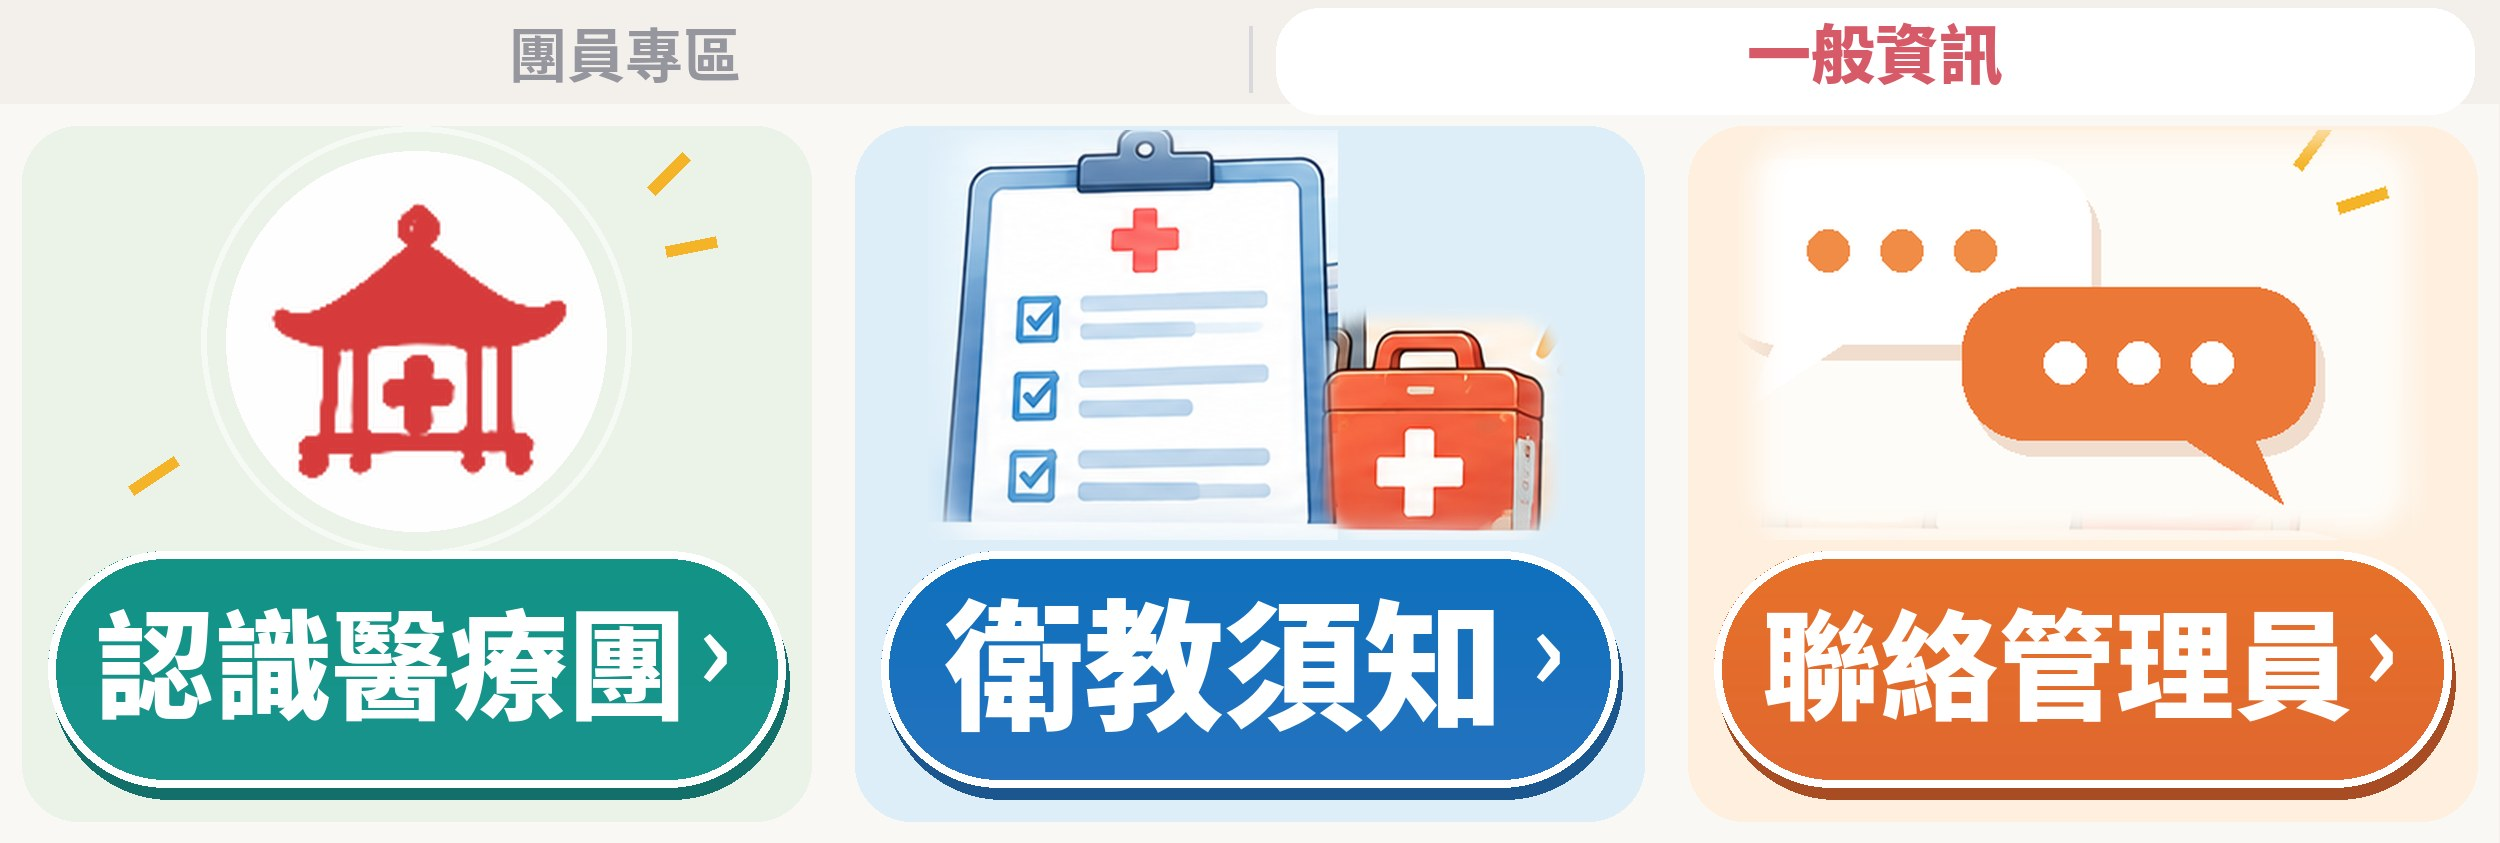
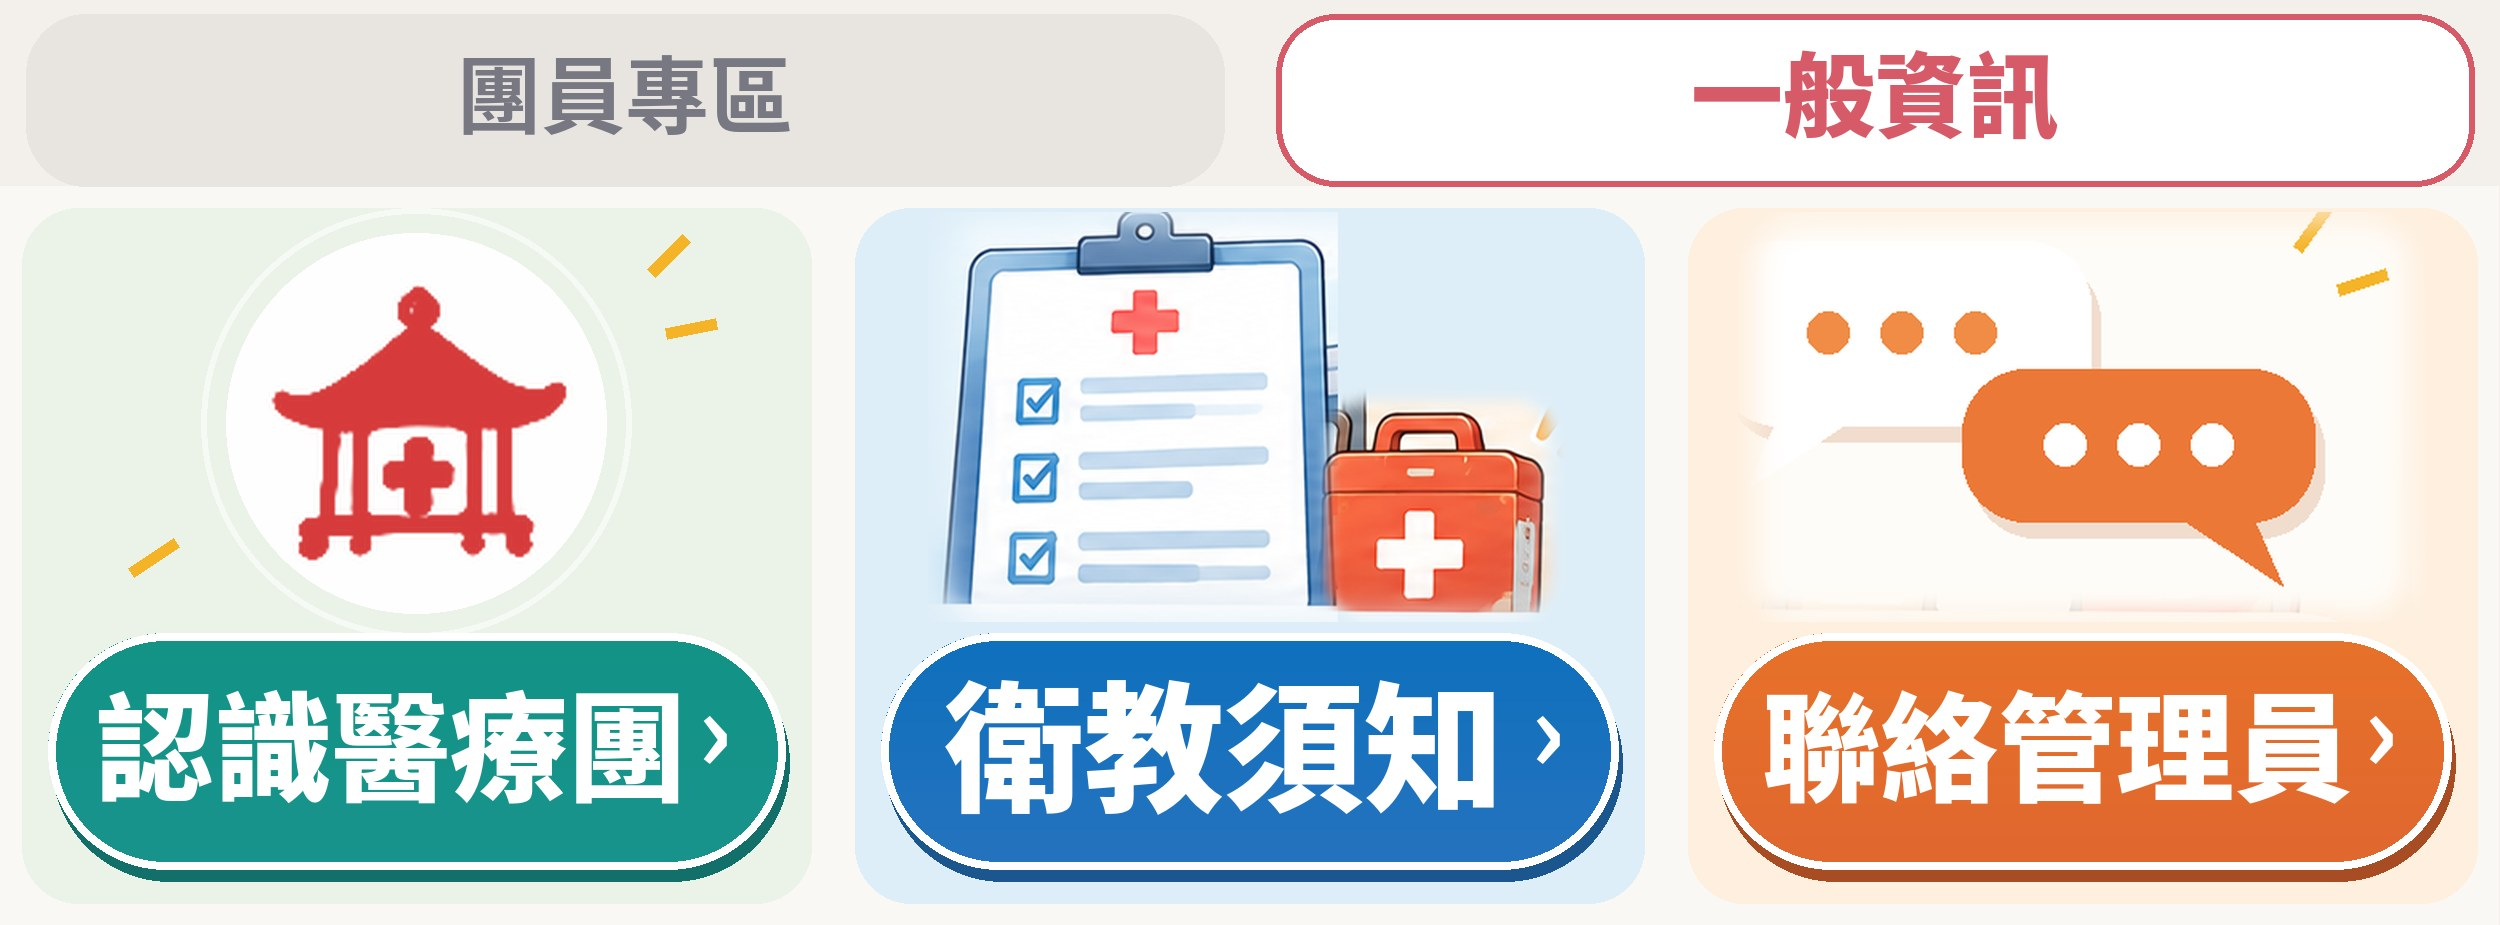
團員選單分頁列加高、字放大，比較好按
Claude-Session: https://claude.ai/code/session_01UgnuMUR9BFixKJirFzAXJh

diff --git a/security/worker.js b/security/worker.js
@@ -109,11 +109,11 @@ async function parseRoute(req, env, json) {
 // 兩種選單：guest（預設，沒開通的人）、member（審核通過的團員）。用 alias 記住目前的選單 ID，不用另外存。
 const SITE = 'https://tsushin-buishatun.pages.dev';
 const LIFF = id => 'https://liff.line.me/' + id;
-// 圖片 2500×843。分頁式選單上方 104px 是分頁列（左：團員專區、右：一般資訊），下面三格按鈕
-const MW = 2500, MH = 843, TAB = 104;
-const cols3 = (acts, top) => acts.map((a, i) => {
+// 一般民眾選單 2500×843；團員兩頁 2500×925，上方 186px 是分頁列（左：團員專區、右：一般資訊），下面三格按鈕
+const MW = 2500, MH = 843, TH = 925, TAB = 186;
+const cols3 = (acts, top, h) => acts.map((a, i) => {
   const cw = Math.floor(MW / 3), x = i * cw;
-  return { bounds: { x, y: top, width: i === 2 ? MW - x : cw, height: MH - top }, action: a };
+  return { bounds: { x, y: top, width: i === 2 ? MW - x : cw, height: h - top }, action: a };
 });
 const tabs = () => [
   { bounds: { x: 0, y: 0, width: MW / 2, height: TAB }, action: { type: 'richmenuswitch', richMenuAliasId: 'bst-member', data: 'tab=member' } },
@@ -131,9 +131,9 @@ const MEMBER = [
   { type: 'uri', label: '倉儲管理', uri: LIFF('2011820105-ofRs4ehy') },
 ];
 const MENUS = {
-  guest:   { alias: 'bst-guest',    name: '白沙屯醫護團｜一般民眾', img: 'guest.jpg',   areas: cols3(PUBLIC, 0) },
-  member:  { alias: 'bst-member',   name: '白沙屯醫護團｜團員專區', img: 'member.jpg',  areas: [...tabs(), ...cols3(MEMBER, TAB)] },
-  member2: { alias: 'bst-member-b', name: '白沙屯醫護團｜一般資訊', img: 'member2.jpg', areas: [...tabs(), ...cols3(PUBLIC, TAB)] },
+  guest:   { alias: 'bst-guest',    name: '白沙屯醫護團｜一般民眾', img: 'guest.jpg',   h: MH, areas: cols3(PUBLIC, 0, MH) },
+  member:  { alias: 'bst-member',   name: '白沙屯醫護團｜團員專區', img: 'member.jpg',  h: TH, areas: [...tabs(), ...cols3(MEMBER, TAB, TH)] },
+  member2: { alias: 'bst-member-b', name: '白沙屯醫護團｜一般資訊', img: 'member2.jpg', h: TH, areas: [...tabs(), ...cols3(PUBLIC, TAB, TH)] },
 };
 const lineApi = (env, path, opt = {}) => fetch((opt.data ? 'https://api-data.line.me' : 'https://api.line.me') + path, {
   method: opt.method || 'GET',
@@ -188,7 +188,7 @@ async function menuSetupRoute(req, env, json) {
     // 1) 先把三個選單都建好、上傳圖片
     const made = {};
     for (const [key, m] of Object.entries(MENUS)) {
-      const body = { size: { width: MW, height: MH }, selected: true, name: m.name, chatBarText: '選單', areas: m.areas };
+      const body = { size: { width: MW, height: m.h }, selected: true, name: m.name, chatBarText: '選單', areas: m.areas };
       const c = await lineApi(env, '/v2/bot/richmenu', { method: 'POST', type: 'application/json', body: JSON.stringify(body) });
       if (!c.ok) return json({ error: `建立 ${key} 失敗：` + await c.text() }, 502);
       const id = (await c.json()).richMenuId;
